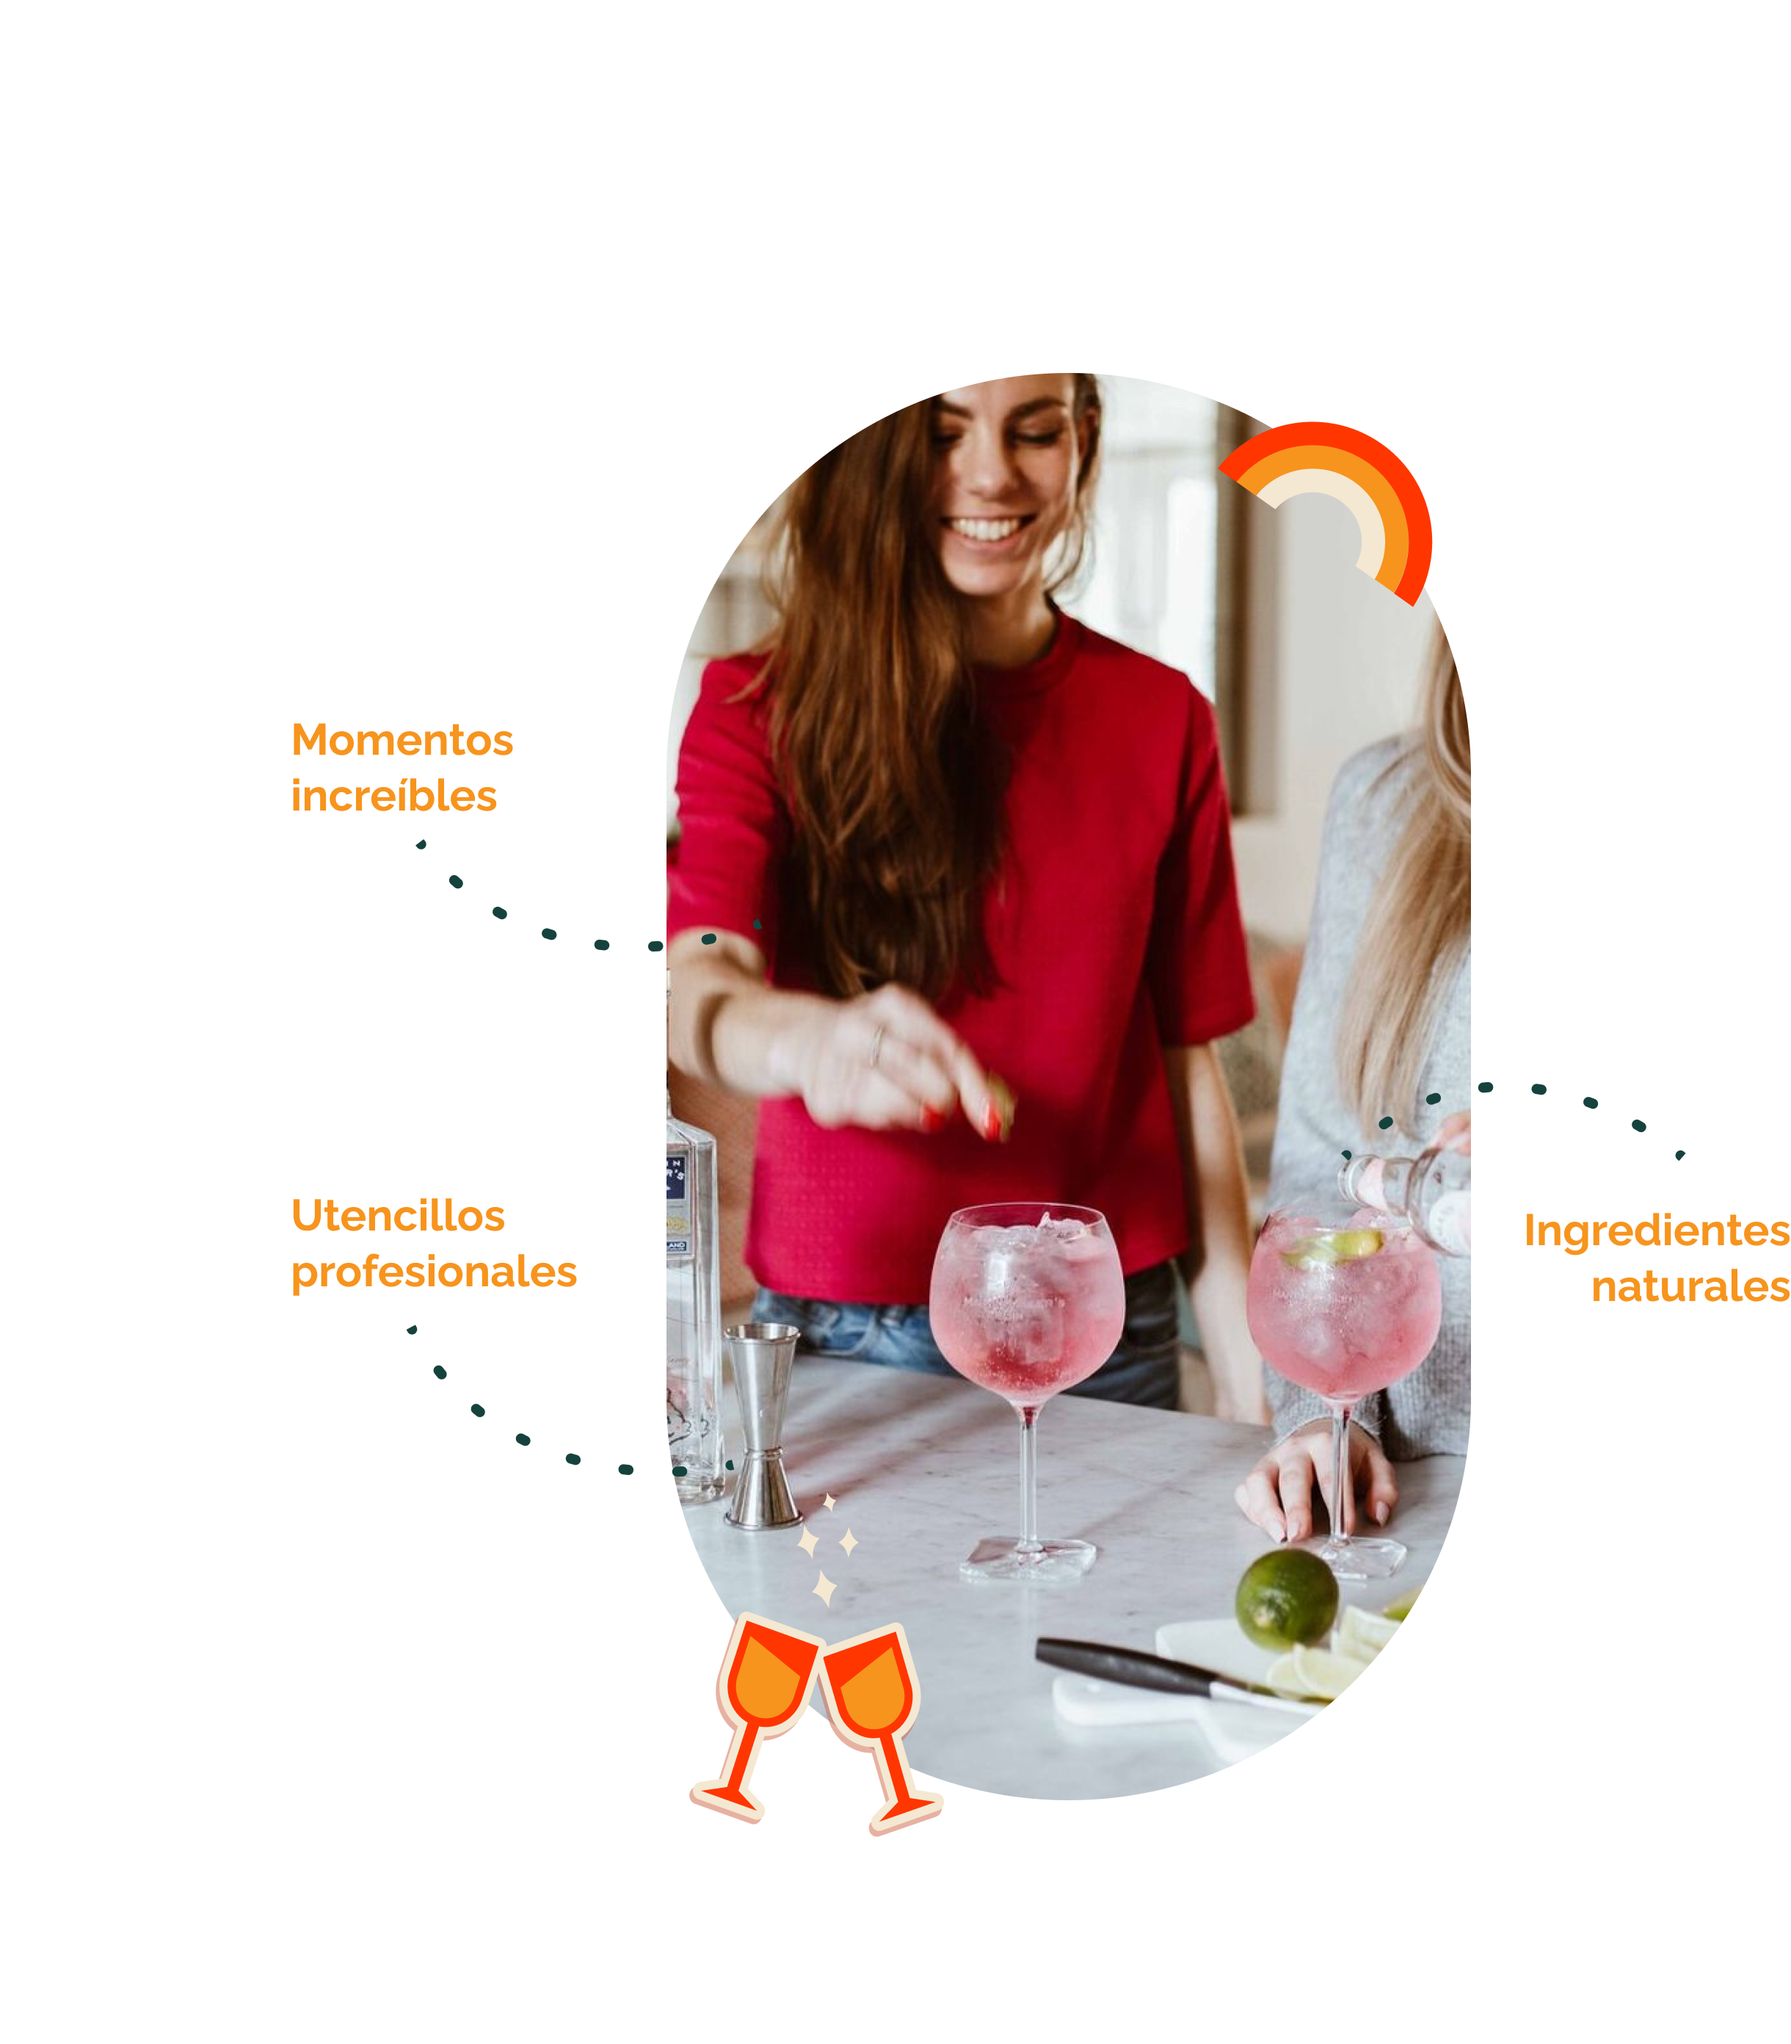
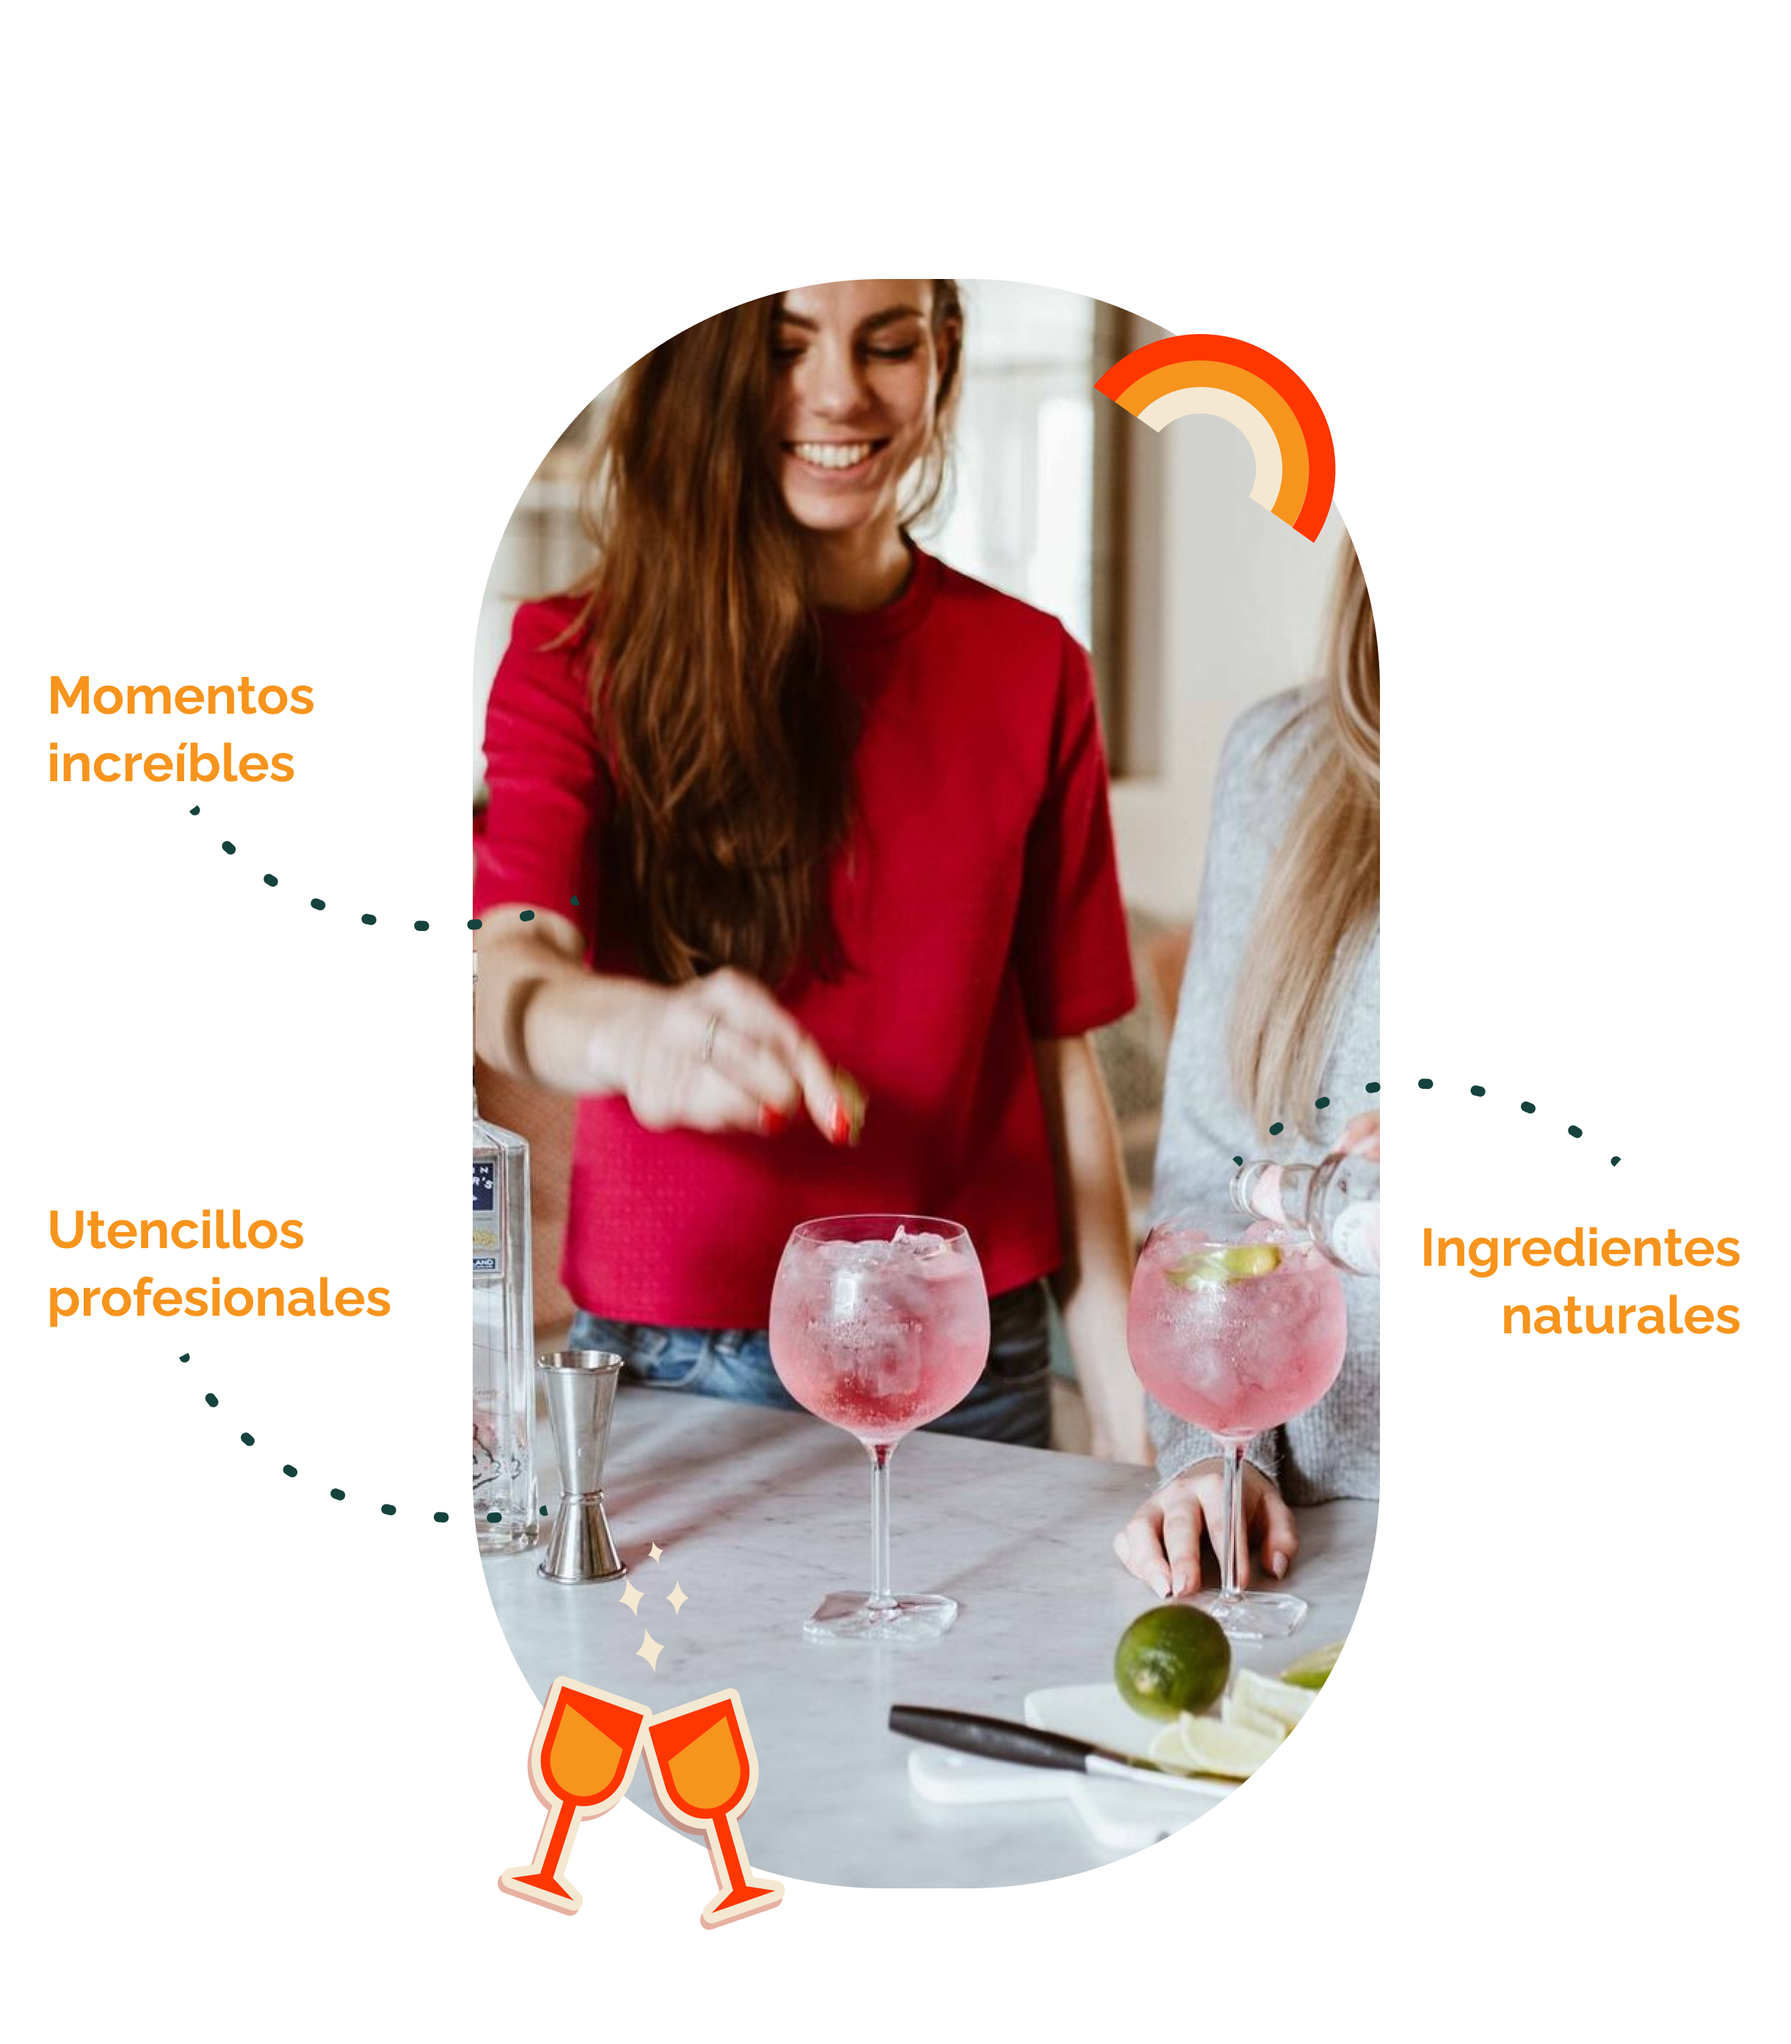
kk

diff --git a/index.html b/index.html
@@ -994,7 +994,7 @@ Ahora ya me suscribí al siguiente box!!!
           <div class="accordion-item">
             <h2 class="accordion-header">
               <button class="accordion-button collapsed" type="button" data-bs-toggle="collapse" data-bs-target="#faq-content-1">
-                ¿Puedo cancelar mi suscripción cuando quiera?
+                ¿Puedo cancelar mi suscripción en cualquier momento?
               </button>
             </h2>
             <div id="faq-content-1" class="accordion-collapse collapse" data-bs-parent="#faqlist1">
@@ -1020,7 +1020,7 @@ Ahora ya me suscribí al siguiente box!!!
           <div class="accordion-item">
             <h2 class="accordion-header">
               <button class="accordion-button collapsed" type="button" data-bs-toggle="collapse" data-bs-target="#faq-content-3">
-                Si soy alergica a un ingrediente, ¿podré aclararlo?
+                Si soy alergica a un ingrediente, ¿podré aclararlo en algún lado?
               </button>
             </h2>
             <div id="faq-content-3" class="accordion-collapse collapse" data-bs-parent="#faqlist1">
@@ -1067,7 +1067,7 @@ Ahora ya me suscribí al siguiente box!!!
           <div class="accordion-item">
             <h2 class="accordion-header">
               <button class="accordion-button collapsed" type="button" data-bs-toggle="collapse" data-bs-target="#faq2-content-3">
-                ¿Puedo saber al suscribirme que trae mi caja?
+                ¿Puedo saber cuando me suscribo que trae mi caja dentro?
               </button>
             </h2>
             <div id="faq2-content-3" class="accordion-collapse collapse" data-bs-parent="#faqlist2">

diff --git a/assets/css/style.css b/assets/css/style.css
@@ -938,6 +938,12 @@ opacity: 100%;
   text-transform: uppercase;
 }
 
+.about img{
+  padding-top:60px;
+  padding-left:60px;
+  padding-bottom:60px;
+}
+
 .about h2 {
   font-size: 24px;
   font-weight: 700;
@@ -986,6 +992,9 @@ line-height: 127%; /* 26.67px */
 @media (max-width: 768px) {
   .about{
     text-align: center;
+  }
+  .about img{
+    padding:0px
   }
 }
   
